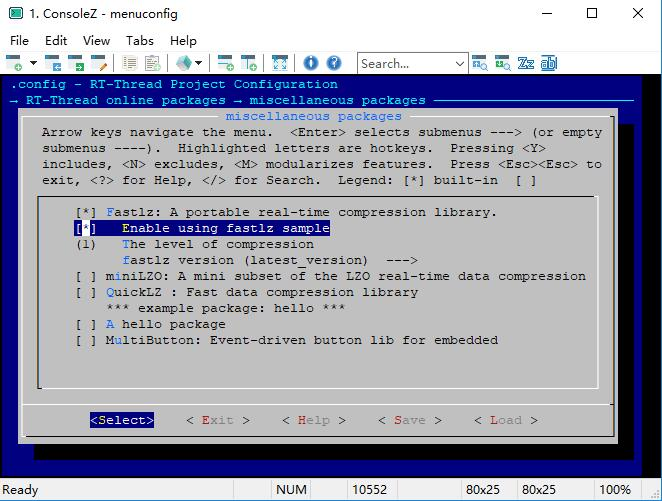
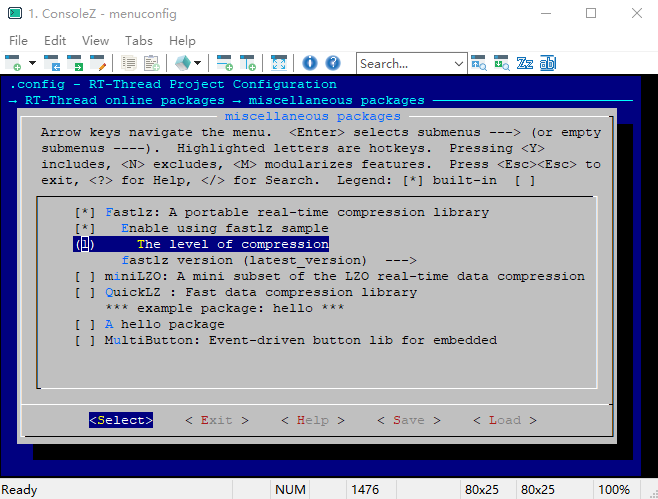
[update] 更新 image，更新 sample macro

Changed region(s): [[0.0, 0.0, 1.0, 1.0], [0.6687, 0.0902, 0.8511, 0.1503], [0.8815, 0.0, 0.9119, 0.0301]]

diff --git a/fastlz_sample.c b/fastlz_sample.c
@@ -50,14 +50,14 @@
 #define DCOMPRESS_BUFFER_SIZE          4096
 
 /* compress level: 1 or 2 */
-#define FASTLZ_COMPRESS_LEVEL          FASTLZ_COMPRESSION_LEVEL
+#define FASTLZ_COMPRESS_LEVEL          FASTLZ_SAMPLE_COMPRESSION_LEVEL
 
 static int fastlz_compress_file(int fd_in, int fd_out)
 {
     /* Start to compress file  */
     rt_uint8_t *cmprs_buffer = RT_NULL, *buffer = RT_NULL;
     rt_uint8_t buffer_hdr[BLOCK_HEADER_SIZE] = { 0 };
-    size_t cmprs_size = 0, block_size = 0, totle_cmprs_size = 0;
+    int cmprs_size = 0, block_size = 0, totle_cmprs_size = 0;
     size_t file_size = 0, i = 0;
     int ret = 0;
 
@@ -228,7 +228,7 @@ int fastlz_test(int argc, char ** argv)
 
         if(fastlz_compress_file(fd_in, fd_out) < 0)
         {
-            rt_kprintf("[fastlz] quciklz compress file error!\n");
+            rt_kprintf("[fastlz] fastlz compress file error!\n");
         }
 
     }
@@ -237,7 +237,7 @@ int fastlz_test(int argc, char ** argv)
 
         if(fastlz_decompress_file(fd_in, fd_out) < 0)
         {
-            rt_kprintf("[fastlz] quciklz decompress file error!\n");
+            rt_kprintf("[fastlz] fastlz decompress file error!\n");
         }
     }
     else
